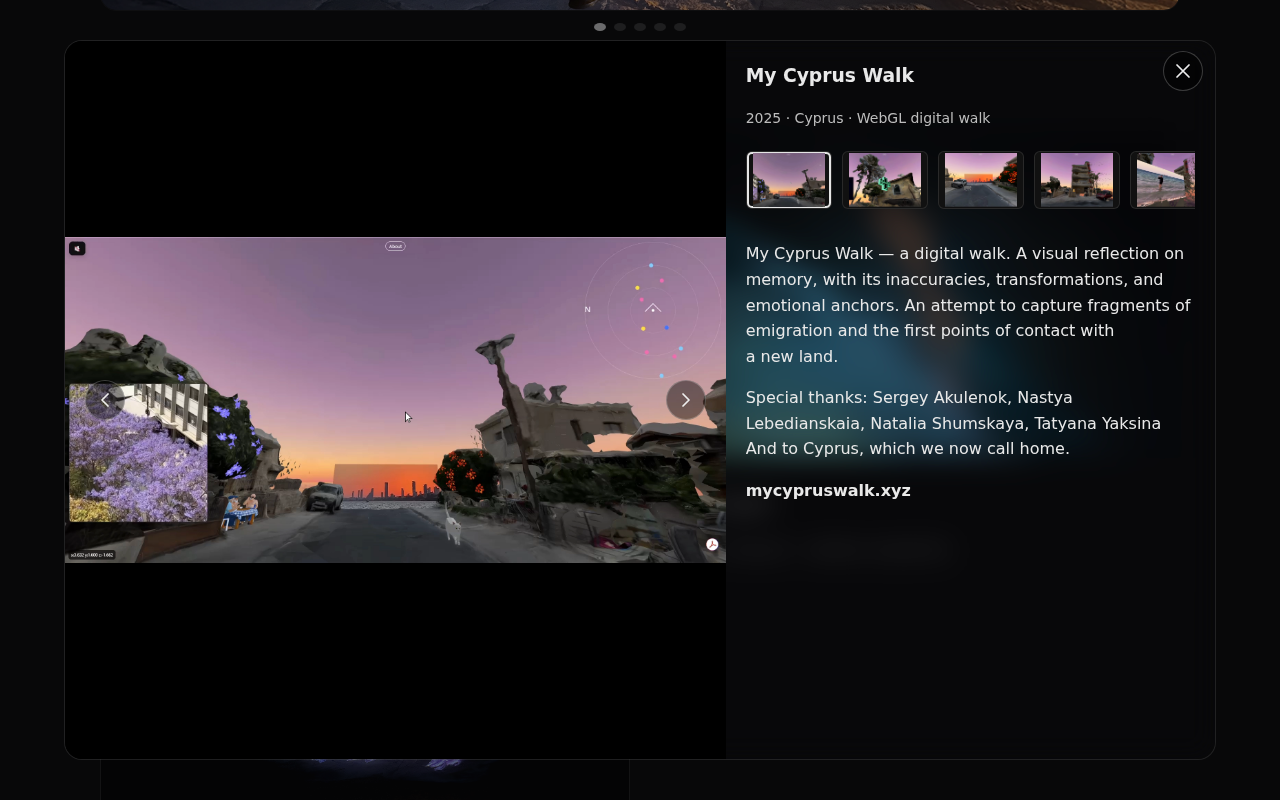
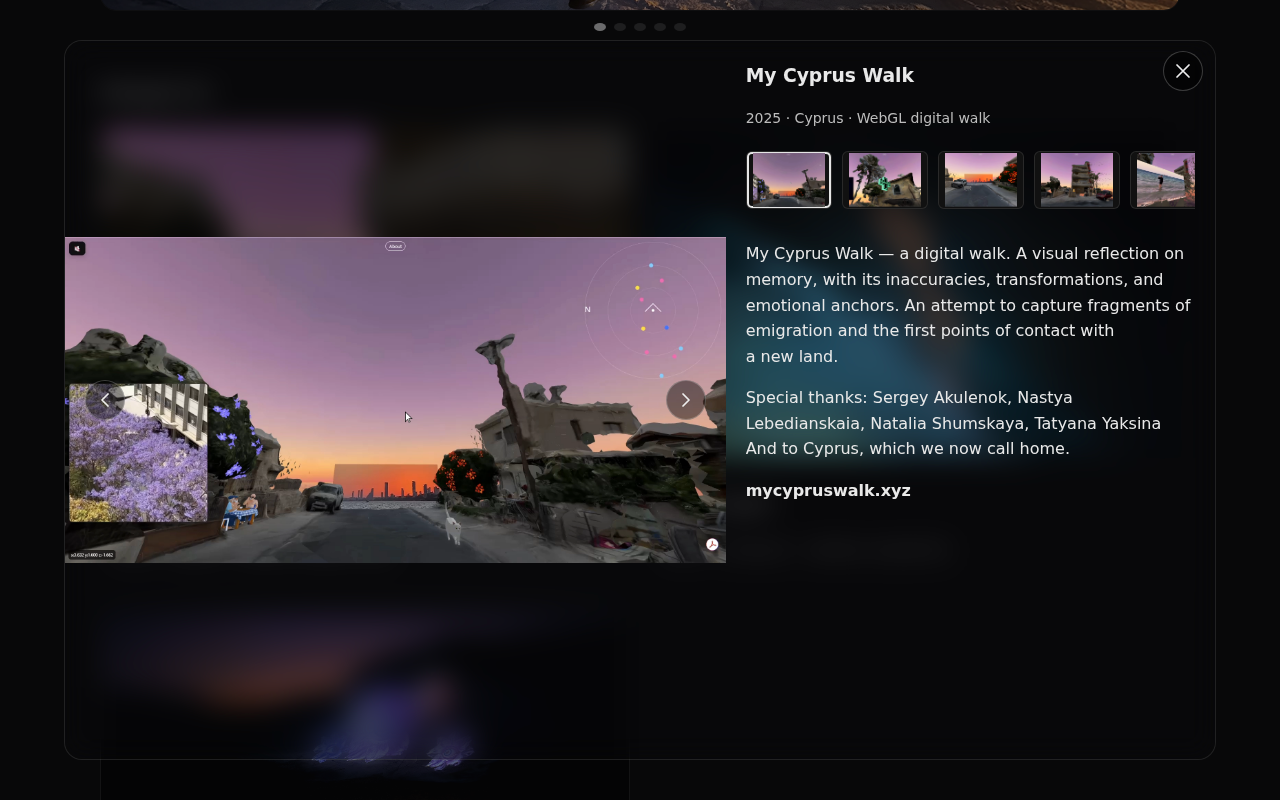
feat: Redesign project modal and apply layout corrections
- Redesigned the project modal with distinct layouts for desktop and mobile.
- Desktop view is a two-column layout with the main image on the left and project details on the right.
- Mobile view is a single-column, stacked layout.
- Implemented independent scrolling for the text description and thumbnail gallery.
- Applied user-requested corrections:
  - Ensured the desktop main image fills the full modal height with a frosted glass effect.
  - Standardized padding and vertical spacing on the mobile layout for a cleaner appearance.

Changed region(s): [[0.0625, 0.125, 0.5, 0.3125], [0.0938, 0.75, 0.375, 0.9688], [0.5312, 0.2812, 0.5625, 0.3125]]

diff --git a/index.html b/index.html
@@ -136,15 +136,15 @@ h2{font-size:18px;letter-spacing:.08em;text-transform:uppercase;margin:0 0 18px;
 .m-close{ position:absolute; top:10px; right:12px }
 
 /* LEFT: media column */
-.m-media{position:relative;background:#0a0a0a;z-index:1}
+.m-media{position:relative;z-index:1}
 .viewport{
   position:relative;width:100%;height:100%;
-  display:grid;place-items:center;background:#0a0a0a;
+  display:grid;place-items:center;
 }
 .viewport img,.viewport video{
   width:100%;height:100%;
   object-fit:contain; /* ← ключ: НИКОГДА НЕ КРОПАЕМ */
-  display:block;background:#000;
+  display:block;
 }
 .m-nav{position:absolute;top:50%;left:0;right:0;transform:translateY(-50%);display:flex;justify-content:space-between;padding:0 var(--pad);z-index:2}
 .fs-btn{position:absolute;bottom:10px;right:12px}
@@ -220,17 +220,19 @@ h2{font-size:18px;letter-spacing:.08em;text-transform:uppercase;margin:0 0 18px;
     order: 2;
     height: auto;
     flex-grow: 1;
-    padding: 0;
+    padding-top: 16px;
     display: flex;
     flex-direction: column;
     overflow: hidden;
   }
-  .modal .m-meta h3, .modal .m-meta p {
+  .modal .m-meta > h3, .modal .m-meta > .m-sub {
     padding: 0 16px;
+    margin: 0 0 16px 0;
   }
   .modal .m-thumbs {
     order: 2;
-    padding: 8px 16px;
+    padding: 0 16px;
+    margin-bottom: 16px;
     background: transparent;
     flex-shrink: 0;
   }
@@ -242,7 +244,7 @@ h2{font-size:18px;letter-spacing:.08em;text-transform:uppercase;margin:0 0 18px;
     order: 3;
     flex-grow: 1;
     overflow-y: auto;
-    padding: 16px;
+    padding: 0 16px 16px;
   }
   .modal .m-dots {
     display: none;
